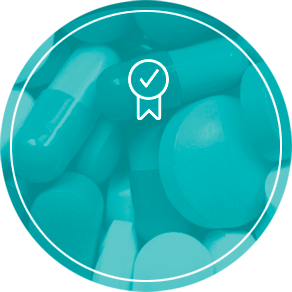
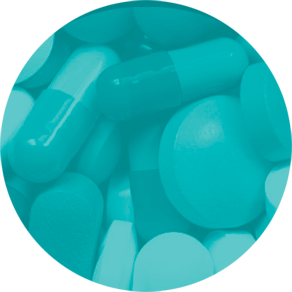
123

diff --git a/Regapharm/index.html b/Regapharm/index.html
@@ -115,39 +115,45 @@
 		<div class="container">
 			<div class="row">
 				<div class="col-md-4 col-sm-12">
-					<div class="services_img">
-						<img src="img/s1.png">	
-						<div class="services_img_descr">
-							<h3>Регистрация<br>лекарственных<br>средств</h3>						
-						</div>						
-					</div>													
-					<p>Мы предлагаем комплексное решение задачи регистрации лекарственных средств в 6 этапов</p>
+					<div class="obertka">
+						<div class="services_circle">
+							<div class="services_circle2">
+								<img src="img/icon1.png">								
+								<h3>Регистрация<br>лекарственных<br>средств</h3>				
+							</div>						
+						</div>	
+					</div>
+					<p>Мы предлагаем комплексное решение задачи регистрации лекарственных средств в 6 этапов.</p>
 					<div class="services_podr">
 						<img src="img/podr.png">
 						<span>Подробнее</span>
-					</div>
+					</div>			
 				</div>
 				<div class="col-md-4 col-sm-12">
-					<div class="services_img">
-						<img src="img/s2.png">	
-						<div class="services_img_descr">
-							<h3>Регистрация<br>субстанций</h3>						
-						</div>						
-					</div>													
-					<p>Регистрация субстанций - это серьезный, трудоемкий, многоэтапный процесс, который мы готовы взять на себя в полном объеме</p>
+					<div class="obertka">
+						<div class="services_circle_s">
+							<div class="services_circle2">
+								<img src="img/icon2.png">								
+								<h3 class="h3_s">Регистрация<br>субстанций</h3>	
+							</div>						
+						</div>	
+					</div>
+					<p>Регистрация субстанций - это серьезный, трудоемкий, многоэтапный процесс, который мы готовы взять на себя в полном объеме.</p>
 					<div class="services_podr">
 						<img src="img/podr.png">
 						<span>Подробнее</span>
-					</div>
+					</div>			
 				</div>
 				<div class="col-md-4 col-sm-12">
-					<div class="services_img">
-						<img src="img/s3.png">	
-						<div class="services_img_descr">
-							<h3>Клинические<br>испытания</h3>						
-						</div>						
-					</div>													
-					<p>Мы проводим различные клинические испытания с целью оценки эффективности и безопасности нового лекарственного препарата</p>
+					<div class="obertka">
+						<div class="services_circle_t">
+							<div class="services_circle2">
+								<img src="img/icon3.png">								
+								<h3 class="h3_t">Клинические<br>испытания</h3>
+							</div>						
+						</div>	
+					</div>
+					<p>Мы проводим различные клинические испытания с целью оценки эффективности и безопасности нового лекарственного препарата.</p>
 					<div class="services_podr">
 						<img src="img/podr.png">
 						<span>Подробнее</span>

diff --git a/Regapharm/css/main.css b/Regapharm/css/main.css
@@ -87,14 +87,86 @@ header .menu_line li:nth-child(6) {
   font-size: 40px;
   line-height: 45px;
   margin-top: 100px;
+  margin-left: 40px;
 }
 
 .services {
-  padding: 60px 0 110px 0;
+  padding: 65px 0 110px 0;
 }
 
-.services .col-md-4 {
+.services .services_circle,
+.services .services_circle_s,
+.services .services_circle_t {
+  width: 292px;
+  height: 292px;
+  display: table-cell;
+  position: relative;
+  border-radius: 146px;
+  -moz-border-radius: 146px;
+  -webkit-border-radius: 146px;
+  -khtml-border-radius: 146px;
+  line-height: 292px;
+  background-image: url("../img/s1.png");
+  background-repeat: no-repeat;
+  background-position: top, center;
+}
+
+.services .services_circle_s {
+  background-image: url("../img/s2.png");
+}
+
+.services .services_circle_t {
+  background-image: url("../img/s3.png");
+}
+
+.services .services_circle2 {
+  width: 270px;
+  height: 270px;
+  position: absolute;
+  border-radius: 135px;
+  -moz-border-radius: 135px;
+  -webkit-border-radius: 135px;
+  -khtml-border-radius: 135px;
+  line-height: 270px;
+  border: 3px #fff solid;
+  z-index: 99;
+  left: 50%;
+  margin-left: -135px;
+  top: 50%;
+  margin-top: -135px;
+}
+
+.services .services_circle2 img {
+  display: inline-block;
+  vertical-align: top;
+  margin-top: 45px;
+}
+
+.services .services_circle2 h3 {
+  position: absolute;
+  top: 50%;
+  left: 50%;
+  margin-left: -84px;
+  color: #fff;
+  font-family: "Roboto-Medium", sans-serif;
+  font-size: 24px;
+  font-weight: normal;
+}
+
+.services .services_circle2 .h3_s {
+  margin-left: -72px;
+}
+
+.services .services_circle2 .h3_t {
+  margin-left: -73.5px;
+}
+
+.services .obertka {
   text-align: center;
+  display: table;
+  position: relative;
+  left: 50%;
+  margin-left: -146px;
 }
 
 .services p {
@@ -102,39 +174,14 @@ header .menu_line li:nth-child(6) {
   font-size: 16px;
   font-weight: 600;
   color: #626262;
-  margin: 25px 0 0 39px;
+  margin: 25px 0 0 40px;
   text-align: left;
-}
-
-.services .services_img {
-  text-align: center;
-  position: relative;
-  height: 292px;
-}
-
-.services .services_img img {
-  display: block;
-  position: absolute;
-  left: 39px;
-}
-
-.services .services_img_descr {
-  display: block;
-  position: relative;
-  top: 150px;
-  text-align: center;
-}
-
-.services .services_img_descr h3 {
-  color: #fff;
-  font-family: "Roboto-Medium", sans-serif;
-  font-size: 24px;
-  font-weight: normal;
+  width: 80%;
 }
 
 .services .services_podr {
   text-align: left;
-  margin: 20px 0 0 39px;
+  margin: 20px 0 0 40px;
 }
 
 .services .services_podr span {
@@ -665,7 +712,7 @@ body textarea:required:valid {
   line-height: 1.3em;
   font-weight: 600;
   color: #585858;
-  padding-bottom: 20px;
+  margin: 0;
 }
 
 .prior span {

diff --git a/Regapharm/sass/main.sass b/Regapharm/sass/main.sass
@@ -63,47 +63,85 @@ header
 		font-size: 40px
 		line-height: 45px
 		margin-top: 100px	
+		margin-left: 40px
 
 .services
-	padding: 60px 0 110px 0
-	.col-md-4
+	padding: 65px 0 110px 0
+	.services_circle,
+	.services_circle_s,
+	.services_circle_t
+		width: 292px
+		height: 292px
+		display: table-cell
+		position: relative
+		border-radius: 146px
+		-moz-border-radius: 146px
+		-webkit-border-radius: 146px
+		-khtml-border-radius: 146px
+		line-height: 292px
+		background-image: url("../img/s1.png")
+		background-repeat: no-repeat
+		background-position: top, center		
+	.services_circle_s
+		background-image: url("../img/s2.png")
+	.services_circle_t
+		background-image: url("../img/s3.png")
+	.services_circle2
+		width: 270px
+		height: 270px
+		position: absolute
+		border-radius: 135px
+		-moz-border-radius: 135px
+		-webkit-border-radius: 135px
+		-khtml-border-radius: 135px
+		line-height: 270px
+		border: 3px #fff solid
+		z-index: 99
+		left:50%
+		margin-left: -135px
+		top: 50%
+		margin-top: -135px
+		img
+			display: inline-block
+			vertical-align: top
+			margin-top: 45px
+		h3
+			position: absolute
+			top: 50%
+			left: 50%
+			margin-left: -84px
+			color: #fff
+			font-family: "Roboto-Medium", sans-serif
+			font-size: 24px	
+			font-weight: normal	
+		.h3_s
+			margin-left:-72px
+		.h3_t
+			margin-left:-73.5px
+	.obertka
 		text-align: center
+		display: table
+		position: relative
+		left: 50%
+		margin-left: -146px				
 	p
 		font-family: "Roboto-Regular", sans-serif
 		font-size: 16px
 		font-weight: 600
 		color: #626262
-		margin: 25px 0 0 39px
+		margin: 25px 0 0 40px
 		text-align: left		
-	.services_img
-		text-align: center
-		position: relative
-		height: 292px
-		img
-			display: block
-			position: absolute
-			left: 39px
-	.services_img_descr
-		display: block
-		position: relative
-		top: 150px
-		text-align: center
-		h3
-			color: #fff
-			font-family: "Roboto-Medium", sans-serif
-			font-size: 24px	
-			font-weight: normal
+		width: 80%		
 	.services_podr
 		text-align: left
-		margin: 20px 0 0 39px
+		margin: 20px 0 0 40px
 		span
 			font-family: "Roboto-Medium", sans-serif
 			font-size: 14px
 			text-transform: uppercase
 			color: #00898d
 			font-weight: 600
-			padding-left:10px
-
+			padding-left:10px	
 .registr
 	padding: 0 0 90px 0
 	hr
@@ -485,7 +523,7 @@ body textarea:required:valid
 			line-height: 1.3em
 			font-weight: 600
 			color: #585858
-			padding-bottom: 20px
+			margin: 0			
 .prior
 	span
 		font-family: "Roboto-Medium", sans-serif

diff --git a/Regapharm/css/media.css b/Regapharm/css/media.css
@@ -49,7 +49,7 @@
 	}
 
 	.main_pic h1{
-		font-size: 35px!important;
+		font-size: 30px!important;
 	}
 
 	.navbar-default .navbar-nav .open .dropdown-menu > li > a {
@@ -59,19 +59,7 @@
 	    font-size: 12px;
 	}
 
-	.services_img img{
- 		top: 0;
- 		bottom: 0;
- 		left: 0!important;
- 		right: 0;
- 		margin: auto; 				
- 	}
-
- 	.services_img_descr{
- 		text-align: center; 				
- 	}
-
- 	.services p{
+	.services p{
  		display: block;
  		margin: 25px auto 0!important;
  		text-align: center;
@@ -89,7 +77,6 @@
 
 	.zagol, .zagol_two{
 		display: block!important;
-		text-align: center;
 		margin: 0 auto;	
 		padding-top: 40px;	
 		padding-left: 0!important;
@@ -316,7 +303,6 @@
 
 	.zagol, .zagol_two{
 		display: block!important;
-		text-align: center;
 		margin: 0 auto;	
 		padding-top: 40px;	
 	}
